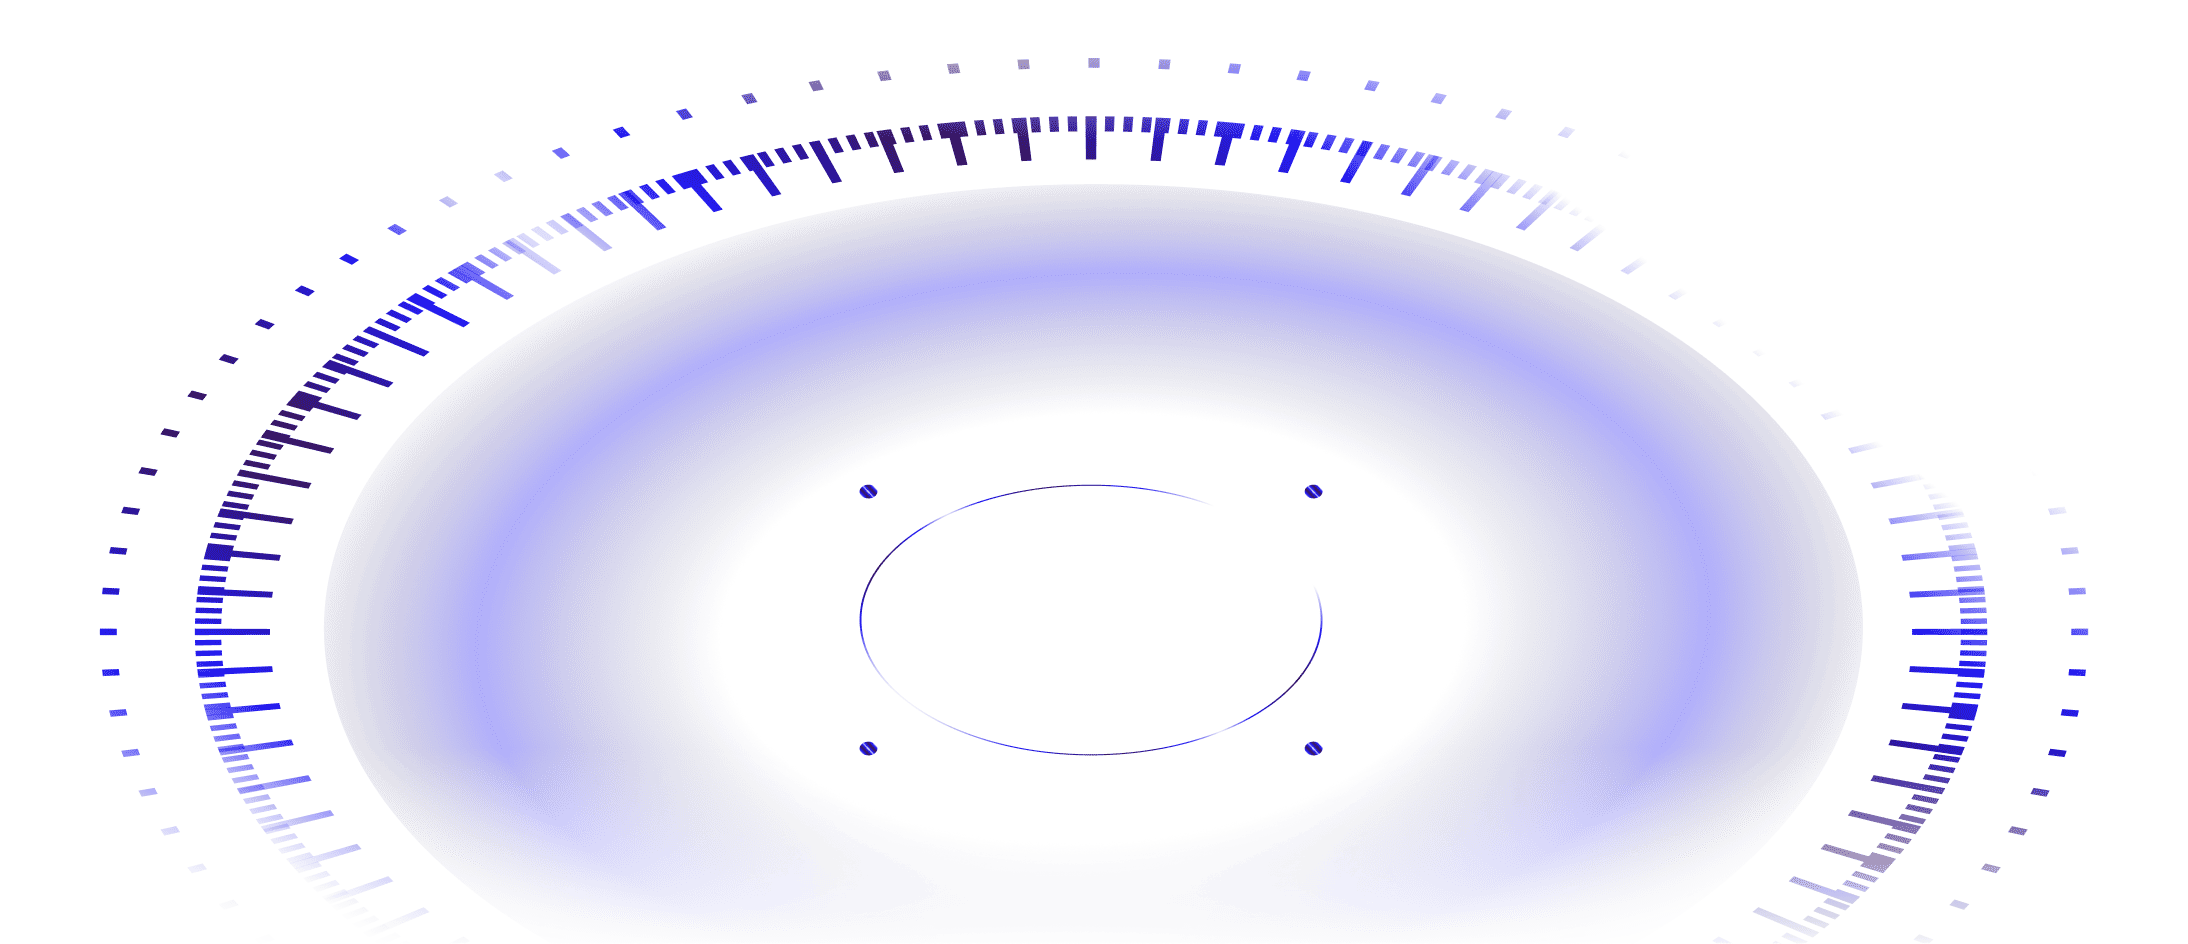
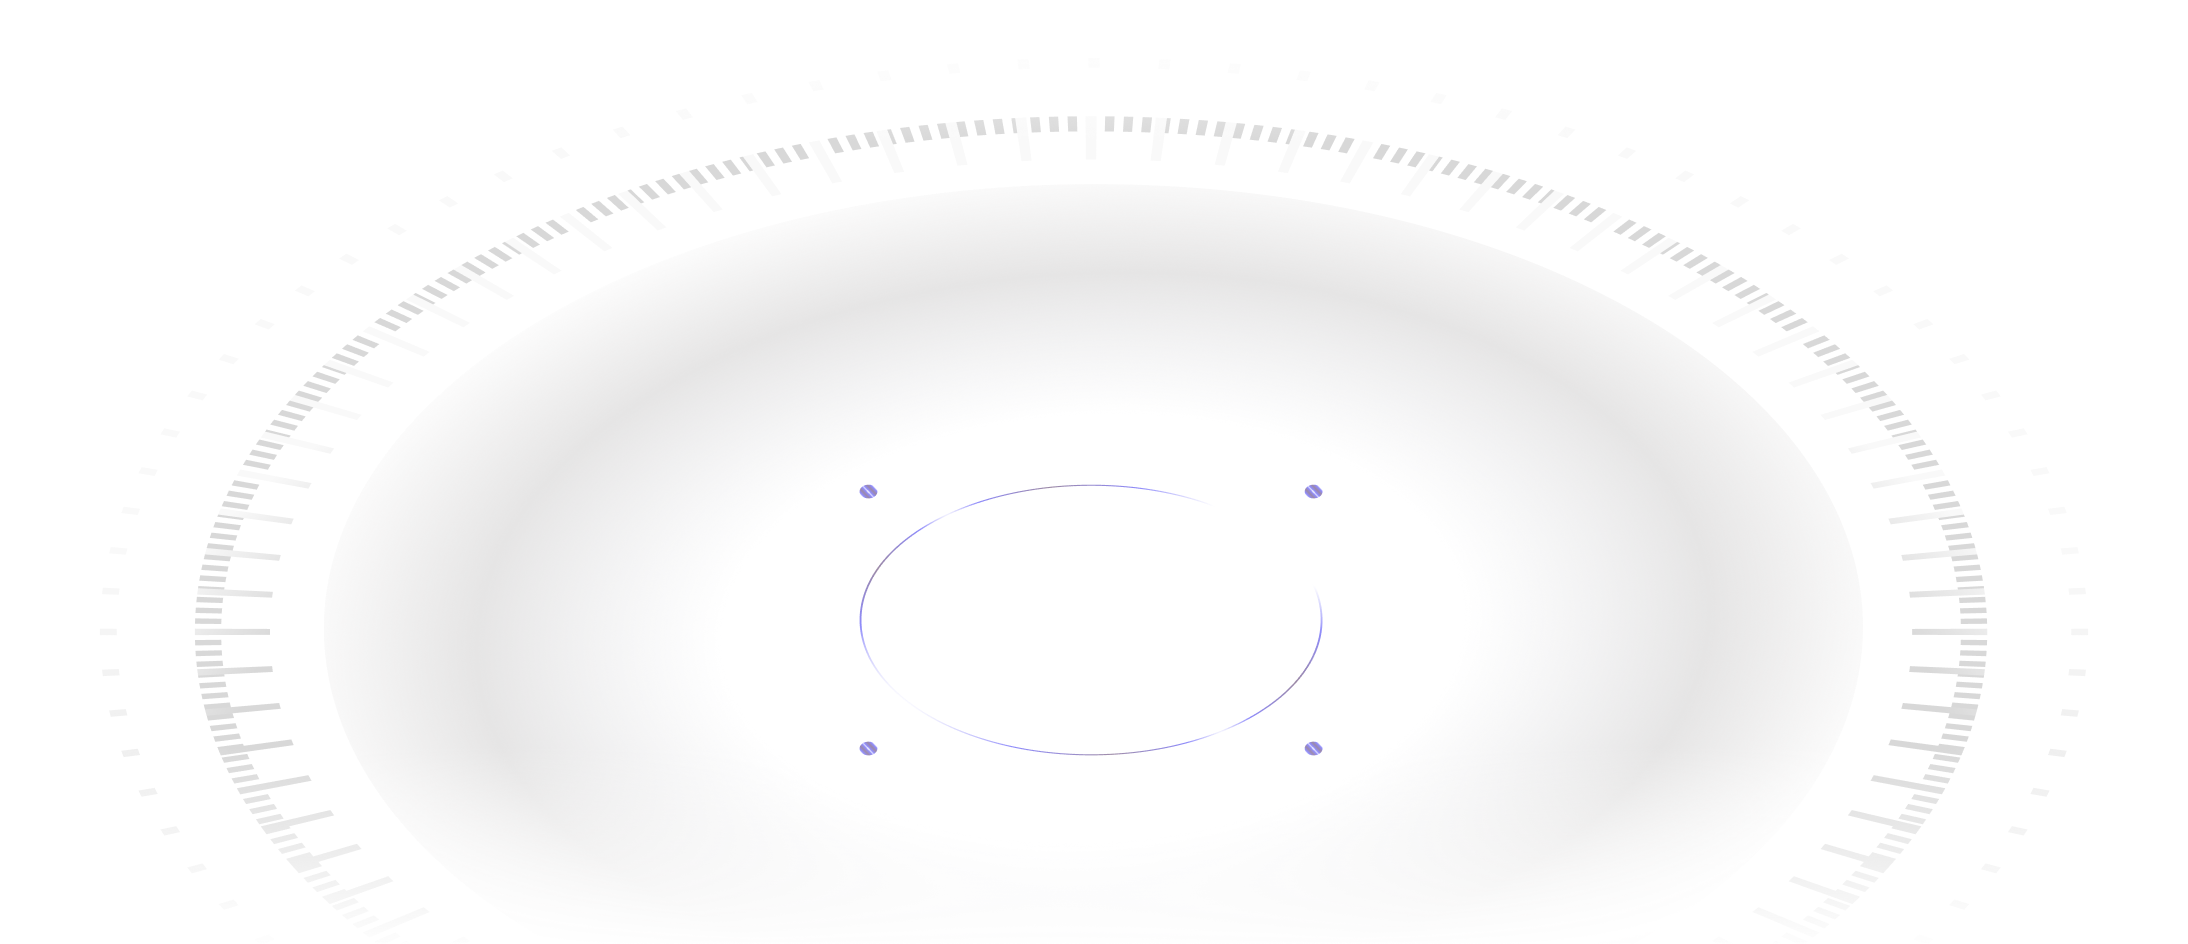
amendment

diff --git a/src/pages/HomeIndex/index.tsx b/src/pages/HomeIndex/index.tsx
@@ -12,7 +12,7 @@ const HomeIndex: FC = () => {
   const isMobile = breakpoint === "mobile";
 
   useLayoutEffect(() => {
-    var observer = new IntersectionObserver(
+    const observer = new IntersectionObserver(
       function (entries) {
         if (entries[0].isIntersecting === true) {
           // 依次显示卡片
@@ -39,7 +39,13 @@ const HomeIndex: FC = () => {
   );
 
   return (
-    <div>
+    <div
+      className="-z-10 relative"
+      style={{
+        background:
+          "linear-gradient(to bottom, rgba(243,243,243,0.5) 0%, rgba(177,177,177,0.5) 100%)",
+      }}
+    >
       {announcementShow ? (
         <div
           className="bg-[#333333] rounded-lg bottom-3 md:bottom-auto md:top-24 left-1/2 -translate-x-1/2 p-6 flex items-center z-50"
@@ -69,14 +75,14 @@ const HomeIndex: FC = () => {
       <div
         className="section-container h-screen min-h-[56vw] relative"
         style={{
-          backgroundImage: `url(${ImgHomepage.BgHero})`,
+          backgroundImage: `url(${isMobile ? ImgHomepage.BgHeroMobile : ImgHomepage.BgHero})`,
           backgroundSize: "cover",
           backgroundPosition: "center",
         }}
       >
-        <div className="section h-full flex flex-col justify-center">
+        <div className="section h-full flex flex-col justify-center items-center">
           <div className="absolute md:left-32 top-1/2 -translate-y-1/2 md:text-left text-[#333333] text-center font-bold text-5xl md:text-8xl leading-[1.1]">
-            Trustless GPU Network
+            Trustless {isMobile ? <br /> : ""}GPU Network
             <br />
             for AI on AO
           </div>
@@ -93,7 +99,7 @@ const HomeIndex: FC = () => {
               Benchmark POC
             </div>
             <div
-              className="btn-colorful btn-main active"
+              className="btn-colorful btn-main"
               onClick={() => {
                 window.open(
                   "https://apus-network.gitbook.io/apus-console-docs/",
@@ -171,7 +177,7 @@ const HomeIndex: FC = () => {
         className="section-container p-none relative"
         style={{
           background:
-            "radial-gradient(circle at 50% 70%, #7028CC 0%, #ffffff 50%, #ffffff 100%)",
+            "radial-gradient(circle at 50% 70%, #7028CC 0%, rgba(255,255,255, 0%) 50%, transparent 50%, transparent 100%)",
         }}
       >
         <div className="section md:px-5 md:pt-[10rem] flex flex-col items-center">
@@ -188,7 +194,7 @@ const HomeIndex: FC = () => {
           className="w-screen md:w-full overflow-x-auto overflow-y-hidden mt-16 relative md:flex md:justify-center z-10"
         >
           <img
-            className="md:w-[68rem] h-150 md:h-[38rem] md:mb-24 overflow-x-scroll max-w-none px-5 md:px-0 z-10"
+            className="relative md:w-[68rem] h-150 md:h-[38rem] md:mb-24 overflow-x-scroll max-w-none px-5 md:px-0 z-10"
             src={ImgHomepage.BgSolution}
           />
           <img
@@ -308,7 +314,7 @@ const HomeIndex: FC = () => {
         }}
       >
         <div className="section flex flex-col items-center">
-          <div className="section-header mt-12 md:mt-16 text-center">
+          <div className="section-header md:text-5xl mt-12 md:mt-16 text-center">
             Powered By
           </div>
           <div className="flex flex-wrap gap-2 md:gap-6 items-center justify-center md:flex-wrap mt-6 md:mt-12">

diff --git a/src/components/HomeHeader/index.tsx b/src/components/HomeHeader/index.tsx
@@ -14,17 +14,12 @@ const HomeHeader: FC<{ showUserInfo?: boolean }> = ({
 
   return (
     <div
-      className="h-16 md:h-[100px] w-full
+      className="h-16 md:h-20 w-full
       fixed t-0 l-0 r-0 px-5 md:px-12
       flex items-center justify-between
-      md:border-b border-solid border-black
       backdrop-blur-3xl z-20"
       style={{
-        background: menuShow
-          ? "#4c4c4c"
-          : !isTablet
-            ? "linear-gradient(to bottom, rgba(74,34,235,25%) 0%, rgba(74,34,235,0) 100%)"
-            : "#ffffff",
+        background: menuShow ? "#4c4c4c" : "#ffffff",
       }}
     >
       <div className="h-full flex items-center" onClick={() => navigate("/")}>
@@ -35,7 +30,7 @@ const HomeHeader: FC<{ showUserInfo?: boolean }> = ({
               : ImgHomepage.LogoHorizonal
           }
           alt="Apus Logo"
-          className="h-6 md:h-12"
+          className="h-6 md:h-10"
         />
       </div>
       {!showUserInfo ? (

diff --git a/src/assets/image.ts b/src/assets/image.ts
@@ -9,6 +9,7 @@ import IconMenu from "./homepage/icon-menu.png";
 import IconMenuWhite from "./homepage/icon-menu-white.png";
 import BgSolution from "./homepage/solution.png";
 import BgHero from "./homepage/bg_kv.png";
+import BgHeroMobile from "./homepage/bg_kv_mobile.png";
 import BgArch from "./homepage/bg-arch.png";
 import FeaturesCost from "./homepage/features-cost.png";
 import FeaturesExecution from "./homepage/features-execution.png";
@@ -45,6 +46,7 @@ export const ImgHomepage = {
   IconMenu,
   IconMenuWhite,
   BgHero,
+  BgHeroMobile,
   BgArch,
   BgSolution,
   FeaturesCost,

diff --git a/src/index.css b/src/index.css
@@ -134,14 +134,14 @@
 }
 
 .section-header {
-    @apply font-bold text-3xl md:text-8xl mb-4 md:mb-12;
+    @apply font-bold text-3xl md:text-6xl mb-4 md:mb-12;
 }
 .section-header.leading-tight {
     line-height: 1.05;
 }
 
 .section-description {
-    @apply font-medium text-xs md:text-3xl w-5/6 md:w-full;
+    @apply text-xs md:text-2xl w-5/6 md:w-full;
     /* color: rgba(255, 255, 255, 0.5); */
 }
 
